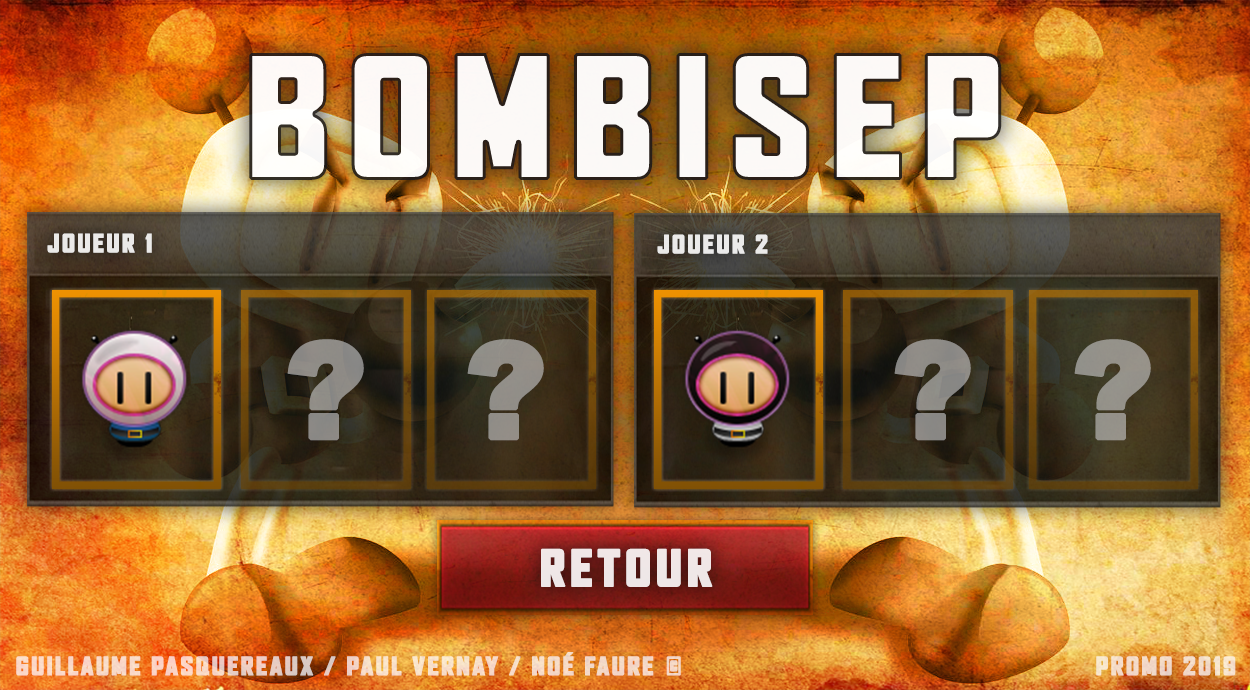
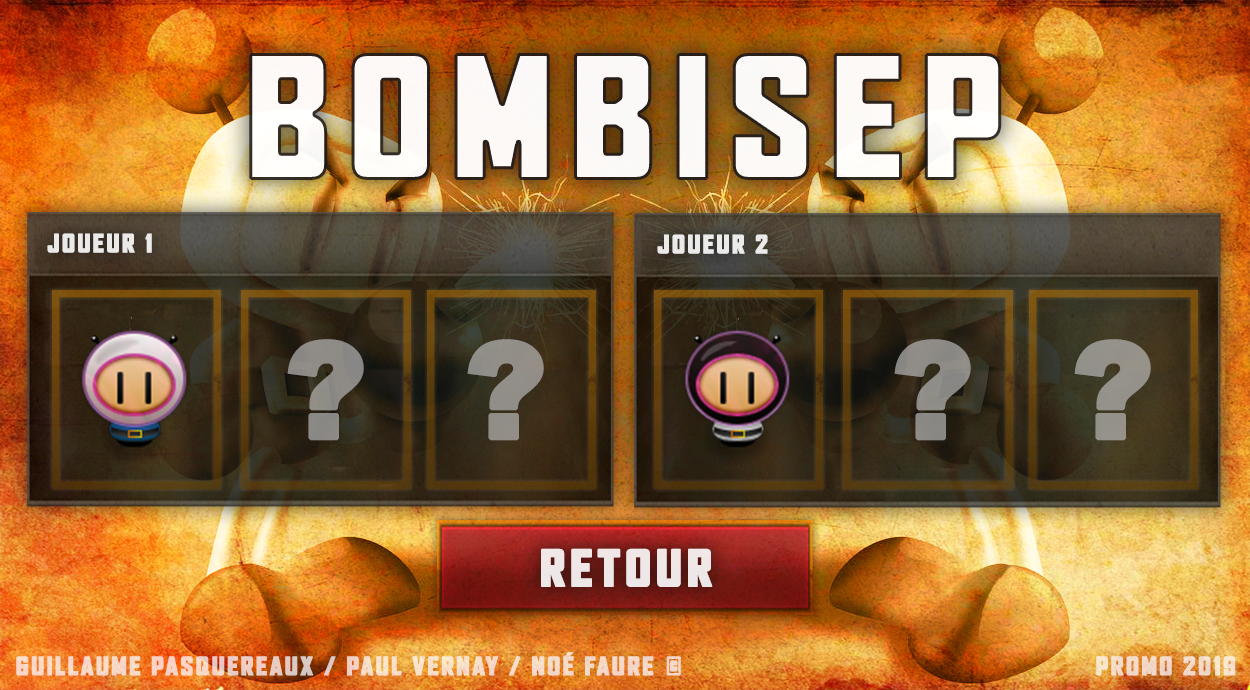
Menu Skin marche

Changed region(s): [[0.4992, 0.3957, 0.6864, 0.7304], [0.0312, 0.3957, 0.1872, 0.7304]]

diff --git a/Bomberman 2/src/Ecran_Titre.java b/Bomberman 2/src/Ecran_Titre.java
@@ -13,6 +13,8 @@ public class Ecran_Titre {
 		int choix = 0;
 		boolean boucle = true;
 		boolean boucle2 = false;
+		int choix_skins_cursor_player_1 = 0;
+		int choix_skins_cursor_player_2 = 0;
 		
 		while(boucle == true){
 			
@@ -43,11 +45,95 @@ public class Ecran_Titre {
 					while(boucle2 == true){
 						StdDraw.picture(625, 345, "Ecran Skins.png");
 						StdDraw.pause(50);
-						StdDraw.show();
 						
-						if (StdDraw.isKeyPressed(27)){
+						//Condition de selection
+						if(choix_skins_cursor_player_1 == 0 ){
+							StdDraw.picture(136, 389, "Cadre Selection.png");
+							
+						}
+						
+						if(choix_skins_cursor_player_1 == 1 ){
+							StdDraw.picture(326, 389, "Cadre Selection.png");
+							
+						}
+						
+						if(choix_skins_cursor_player_1 == 2 ){
+							StdDraw.picture(511, 389, "Cadre Selection.png");
+							
+						}
+						
+						if(choix_skins_cursor_player_1 == -1 ){
+							StdDraw.picture(625, 565, "Retour.png");
+						}
+						
+						if(choix_skins_cursor_player_2 == 0 ){
+							StdDraw.picture(738, 389, "Cadre Selection.png");
+							
+						}
+						
+						if(choix_skins_cursor_player_2 == 1 ){
+							StdDraw.picture(928, 389, "Cadre Selection.png");
+							
+						}
+						
+						if(choix_skins_cursor_player_2 == 2 ){
+							StdDraw.picture(1112, 389, "Cadre Selection.png");
+							
+						}
+						
+						if(choix_skins_cursor_player_2 == -1 ){
+							StdDraw.picture(625, 565, "Retour.png");
+						}
+						
+						//Gestion clavier
+						//Joueur 1
+						if(StdDraw.isKeyPressed(39) && choix_skins_cursor_player_1 < 2){
+							choix_skins_cursor_player_1 = choix_skins_cursor_player_1 + 1;
+							StdDraw.pause(50);
+						}
+						
+						if(StdDraw.isKeyPressed(37) && choix_skins_cursor_player_1 > 0){
+							choix_skins_cursor_player_1 = choix_skins_cursor_player_1 - 1;
+							StdDraw.pause(50);
+						}
+						
+						if(StdDraw.isKeyPressed(38)){
+							choix_skins_cursor_player_1 = 0;
+							StdDraw.pause(50);
+						}
+						
+						if(StdDraw.isKeyPressed(40)){
+							choix_skins_cursor_player_1 = -1;
+							StdDraw.pause(50);
+						}
+						//Joueur 2
+						if(StdDraw.isKeyPressed(68) && choix_skins_cursor_player_2 < 2){
+							choix_skins_cursor_player_2 = choix_skins_cursor_player_2 + 1;
+							StdDraw.pause(50);
+						}
+						
+						if(StdDraw.isKeyPressed(81) && choix_skins_cursor_player_2 > 0){
+							choix_skins_cursor_player_2 = choix_skins_cursor_player_2 - 1;
+							StdDraw.pause(50);
+						}
+						
+						if(StdDraw.isKeyPressed(90)){
+							choix_skins_cursor_player_2 = 0;
+							StdDraw.pause(50);
+						}
+						
+						if(StdDraw.isKeyPressed(83)){
+							choix_skins_cursor_player_2 = -1;
+							StdDraw.pause(50);
+						}
+						
+						
+						if (StdDraw.isKeyPressed(27) || StdDraw.isKeyPressed(KeyEvent.VK_ENTER)){
 							boucle2 = false;
 						}
+					
+						
+						StdDraw.show();
 					
 					}
 				}

diff --git a/Bomberman 2/src/Personnage.java b/Bomberman 2/src/Personnage.java
@@ -8,7 +8,7 @@ public class Personnage {
 	private int x;
 	private int y;
 	private Bombe[] listeBombe = new Bombe[10];
-	private int[] listeBonus = {0,0,0,0,1,0,0,0};
+	private int[] listeBonus = {0,0,0,0,0,0,0,0};
 	
 	public int[] getListeBonus() {
 		return listeBonus;
